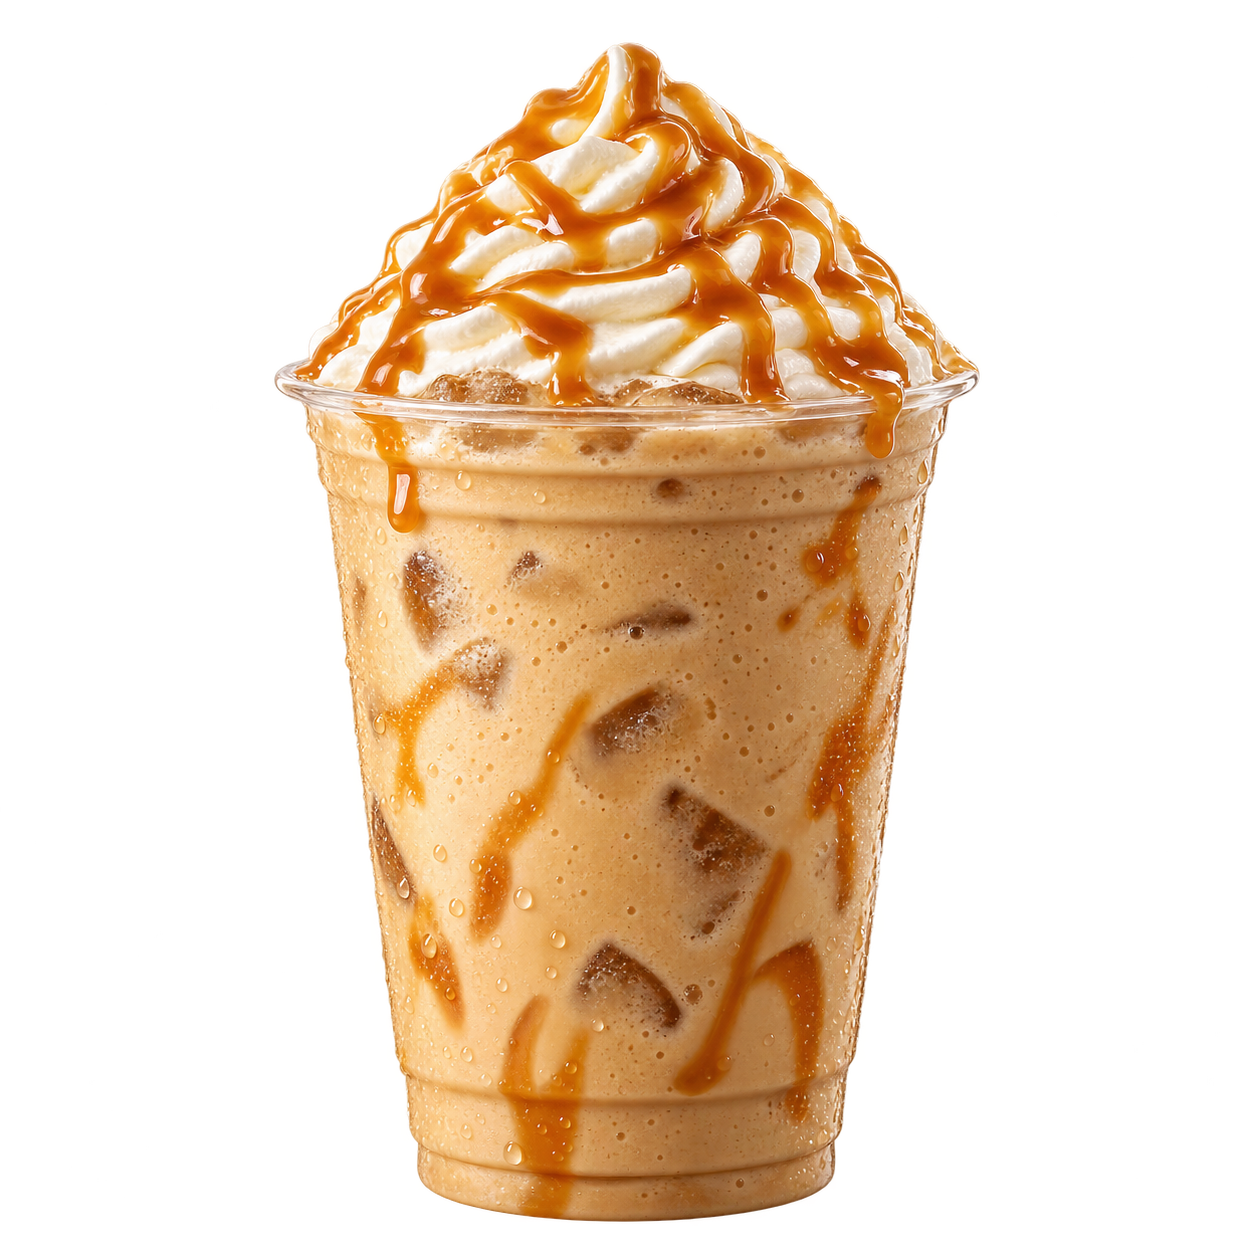
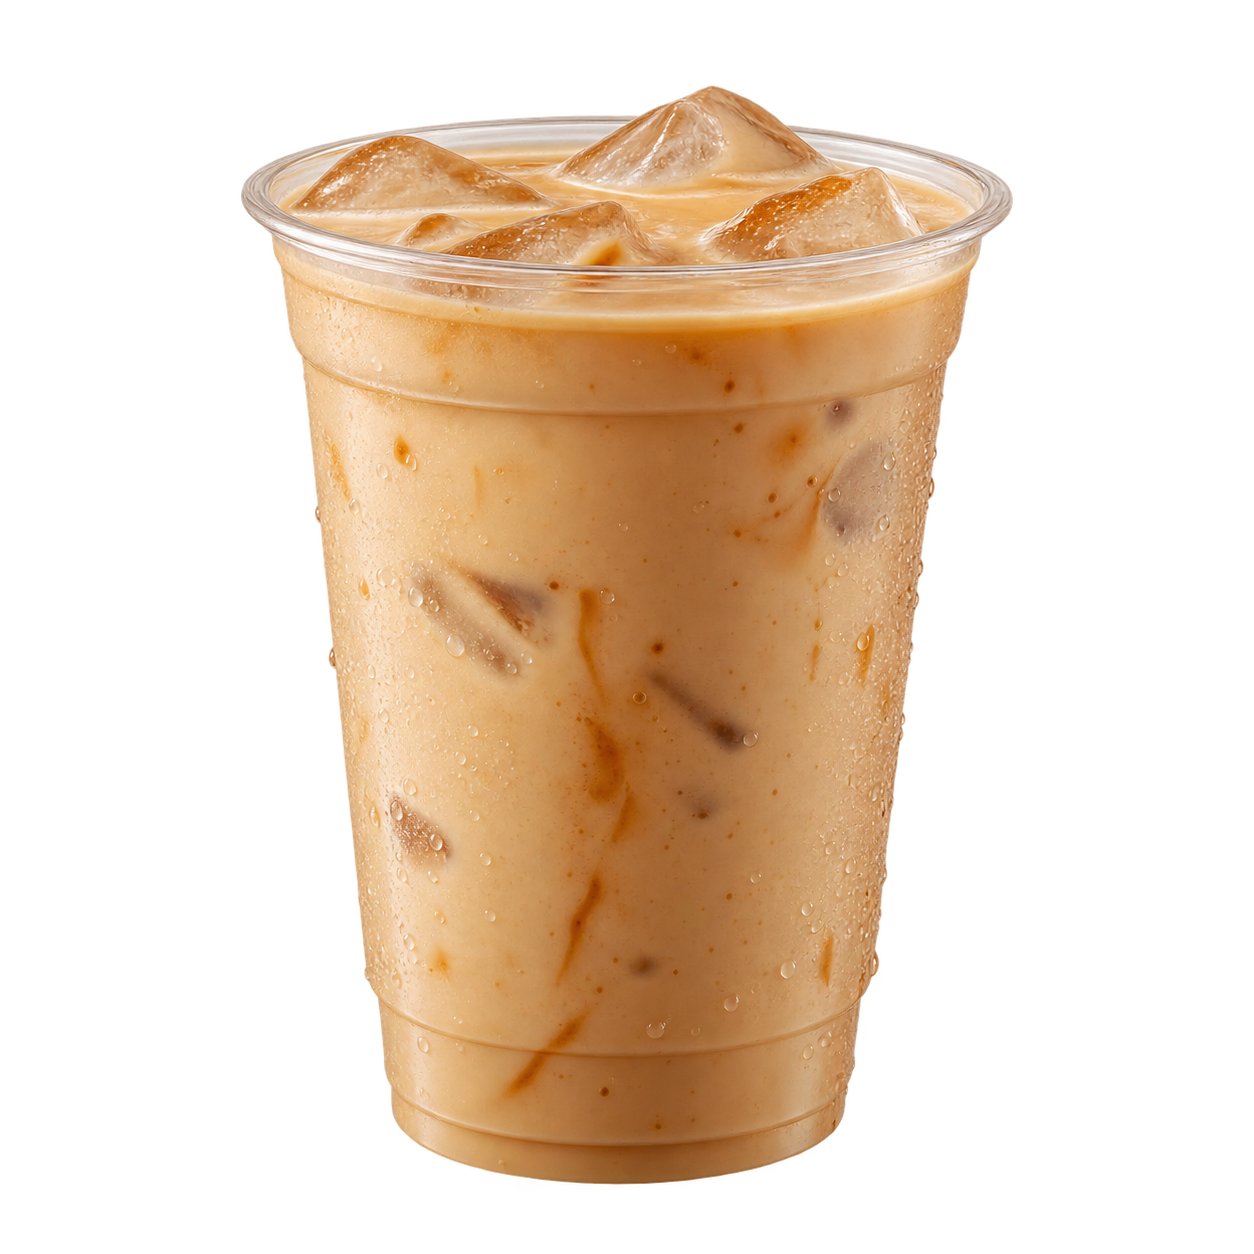
feat(Carta): Cambio de imagenes, colores, fuentes

diff --git a/src/components/menu/MenuCategoryNav.tsx b/src/components/menu/MenuCategoryNav.tsx
@@ -15,7 +15,13 @@ export function CartaCategoryNav({
   onChange,
 }: CartaCategoryNavProps) {
   return (
-    <div className="sticky top-0 z-40 bg-[color:var(--carta-ribbon,#FF8A00)]">
+    <div
+      className="sticky top-0 z-40 bg-[color:var(--carta-ribbon,#FF8A00)]"
+      style={{
+        fontFamily:
+          "var(--font-carta), 'Montserrat', system-ui, sans-serif",
+      }}
+    >
       <nav
         aria-label="Categorías de la carta"
         className="
@@ -44,35 +50,20 @@ export function CartaCategoryNav({
               onClick={() => onChange(category.id)}
               aria-current={active ? "true" : undefined}
               className={`
-                relative
                 shrink-0
                 whitespace-nowrap
                 py-1
                 text-[13px]
-                font-bold
+                font-extrabold
                 uppercase
                 tracking-[0.06em]
-                transition-colors duration-200 motion-reduce:transition-none
-                
+                text-[#141414]
+                transition-opacity duration-200 motion-reduce:transition-none
                 sm:text-sm
-                ${active ? "text-white" : "text-[#141414]/55 hover:text-[#141414]"}
+                ${active ? "opacity-100" : "opacity-65 hover:opacity-100"}
               `}
             >
               {category.name}
-
-              <span
-                aria-hidden="true"
-                className={`
-                  absolute
-                  -bottom-1
-                  left-0
-                  h-[2px]
-                  bg-white
-                  transition-[width] motion-reduce:transition-none
-                  duration-200
-                  ${active ? "w-full" : "w-0"}
-                `}
-              />
             </button>
           );
         })}

diff --git a/src/data/menu/products.ts b/src/data/menu/products.ts
@@ -304,6 +304,7 @@ export const menuProducts: MenuProduct[] = [
     price: 20.9,
     category: "sandwiches",
     image: "/images/products/Carta/acevichado.webp",
+    imageScale: 0.82,
     available: true,
     sourcePage: 2,
   },
@@ -311,12 +312,13 @@ export const menuProducts: MenuProduct[] = [
   {
     id: "mixto-ninfit",
     slug: "mixto-ninfit",
-    name: "Mixto Ninfit",
+    name: "Mixto",
     description:
       "Jamón de pavo, queso dambo, palta, tomate y aliño de la casa.",
     price: 20.9,
     category: "sandwiches",
-    image: "/images/products/Carta/mixto-ninfit.webp",
+    image: "/images/products/Carta/mixto.png",
+    imageScale: 0.82,
     available: true,
     sourcePage: 2,
   },
@@ -333,7 +335,8 @@ export const menuProducts: MenuProduct[] = [
       "Queso crema, trucha ahumada, palta, tomate, brotes y salsa acevichada.",
     price: 20.9,
     category: "tostones",
-    image: "/images/products/Carta/bruschetta-trucha.webp",
+    image: "/images/products/Carta/bruschetta-trucha.png",
+    imageScale: 0.82,
     available: true,
     sourcePage: 2,
   },
@@ -346,7 +349,8 @@ export const menuProducts: MenuProduct[] = [
       "Solterito de quinua, pimiento, palta y huevo.",
     price: 20.9,
     category: "tostones",
-    image: "/images/products/Carta/toston-quinua.webp",
+    image: "/images/products/Carta/toston-quinua.png",
+    imageScale: 0.82,
     available: true,
     sourcePage: 2,
   },
@@ -371,7 +375,7 @@ export const menuProducts: MenuProduct[] = [
   {
     id: "pizza-ninfit",
     slug: "pizza-ninfit",
-    name: "Ninfit",
+    name: "Especial",
     description:
       "Queso, jamón, pimiento morrón, aceitunas verdes y arúgula.",
     price: 21.9,

diff --git a/src/components/menu/MenuCard.tsx b/src/components/menu/MenuCard.tsx
@@ -57,7 +57,7 @@ export function CartaMenuCard({
       className="group flex h-full flex-col bg-white shadow-[0_2px_10px_rgba(7,59,58,0.06)] transition-shadow duration-300 hover:shadow-[0_10px_28px_rgba(7,59,58,0.12)]"
     >
       {/* IMAGEN */}
-      <div className="relative aspect-square overflow-hidden bg-[#ECECEC]">
+      <div className="relative aspect-square overflow-hidden bg-[#F5EDDF]">
         {!imageFailed && (
           <Image
             src={item.image}
@@ -69,6 +69,11 @@ export function CartaMenuCard({
               25vw
             "
             className="object-cover"
+            style={
+              item.imageScale
+                ? { transform: `scale(${item.imageScale})` }
+                : undefined
+            }
             onError={() => setImageFailed(true)}
           />
         )}
@@ -78,21 +83,15 @@ export function CartaMenuCard({
             {item.name}
           </span>
         )}
-
-        {item.featured && (
-          <span className="absolute left-0 top-3 bg-[#141414] px-2.5 py-1 text-[10px] font-bold uppercase tracking-[0.1em] text-white">
-            Favorito
-          </span>
-        )}
       </div>
 
       {/* INFORMACIÓN */}
       <div className="flex flex-1 flex-col px-5 pb-6 pt-5">
-        <h3 className="text-lg font-bold uppercase leading-tight tracking-[0.01em] text-[#141414]">
+        <h3 className="text-lg font-extrabold uppercase leading-tight tracking-[0.01em] text-[#141414]">
           {item.name}
         </h3>
 
-        <p className="mt-3 text-[13px] leading-5 text-[#3D3AA8]">
+        <p className="mt-3 text-[13px] leading-5 text-[#141414]">
           {item.description}
         </p>
 

diff --git a/src/components/menu/MenuCatalog.tsx b/src/components/menu/MenuCatalog.tsx
@@ -108,7 +108,7 @@ export function CartaCatalog() {
       className="text-[color:var(--carta-ink)]"
       style={{
         fontFamily:
-          "var(--font-carta), 'Jost', system-ui, sans-serif",
+          "var(--font-carta), 'Montserrat', system-ui, sans-serif",
         background: "#FBF4EF",
         "--carta-ink": "#141414",
         // Cinta de categorías: naranja vibrante (las letras negras se leen bien)
@@ -136,7 +136,7 @@ export function CartaCatalog() {
               whileInView={{ opacity: 1, y: 0 }}
               viewport={{ once: true, amount: 0.5 }}
               transition={{ duration: 0.45, ease: [0.22, 1, 0.36, 1] }}
-              className="text-center text-4xl font-bold uppercase tracking-[0.01em] text-[color:var(--carta-ink)] sm:text-5xl lg:text-6xl"
+              className="text-center text-4xl font-extrabold uppercase tracking-[0.01em] text-[color:var(--carta-ink)] sm:text-5xl lg:text-6xl"
             >
               {category.name}
             </motion.h2>

diff --git a/src/app/layout.tsx b/src/app/layout.tsx
@@ -1,5 +1,5 @@
 import type { Metadata } from "next";
-import { Anton, Caveat, Jost, Manrope } from "next/font/google";
+import { Anton, Caveat, Manrope, Montserrat } from "next/font/google";
 
 import { Preloader } from "@/components/animations/Preloader";
 import { Footer } from "@/components/layout/Footer";
@@ -27,11 +27,10 @@ const accentFont = Caveat({
 });
 
 // Sustituto libre de "Novecento" (fuente de pago que usa Pickadeli).
-// Jost es una grotesca geométrica estilo Art Déco, muy cercana a Novecento
-// en mayúsculas. Se usa en la Carta.
-const cartaFont = Jost({
+// Montserrat: grotesca geométrica con pesos hasta 800 (bold real). Carta.
+const cartaFont = Montserrat({
   subsets: ["latin"],
-  weight: ["400", "500", "600", "700"],
+  weight: ["400", "500", "600", "700", "800"],
   variable: "--font-carta",
 });
 

diff --git a/src/app/globals.css b/src/app/globals.css
@@ -24,7 +24,9 @@
 * { box-sizing: border-box; }
 html { scroll-behavior: smooth; }
 body { min-width: 320px; overflow-x: clip; margin: 0; background: var(--background); color: var(--foreground); font-family: var(--font-manrope), Arial, Helvetica, sans-serif; text-rendering: optimizeLegibility; }
-button, input, select, textarea { font: inherit; }
+/* Heredar familia/tamaño pero NO el peso, para que las utilidades
+   font-* de Tailwind funcionen en botones e inputs. */
+button, input, select, textarea { font-family: inherit; font-size: 100%; line-height: inherit; letter-spacing: inherit; }
 ::selection { background: var(--accent); color: var(--foreground); }
 :focus-visible { outline: 2px solid var(--primary); outline-offset: 3px; }
 

diff --git a/src/types/catalog.ts b/src/types/catalog.ts
@@ -40,6 +40,8 @@ export interface MenuProduct {
   category: MenuCategoryId;
 
   image: string;
+  // Escala la foto dentro de la card (1 = llena el cuadro, <1 la achica).
+  imageScale?: number;
 
   available: boolean;
   featured?: boolean;
